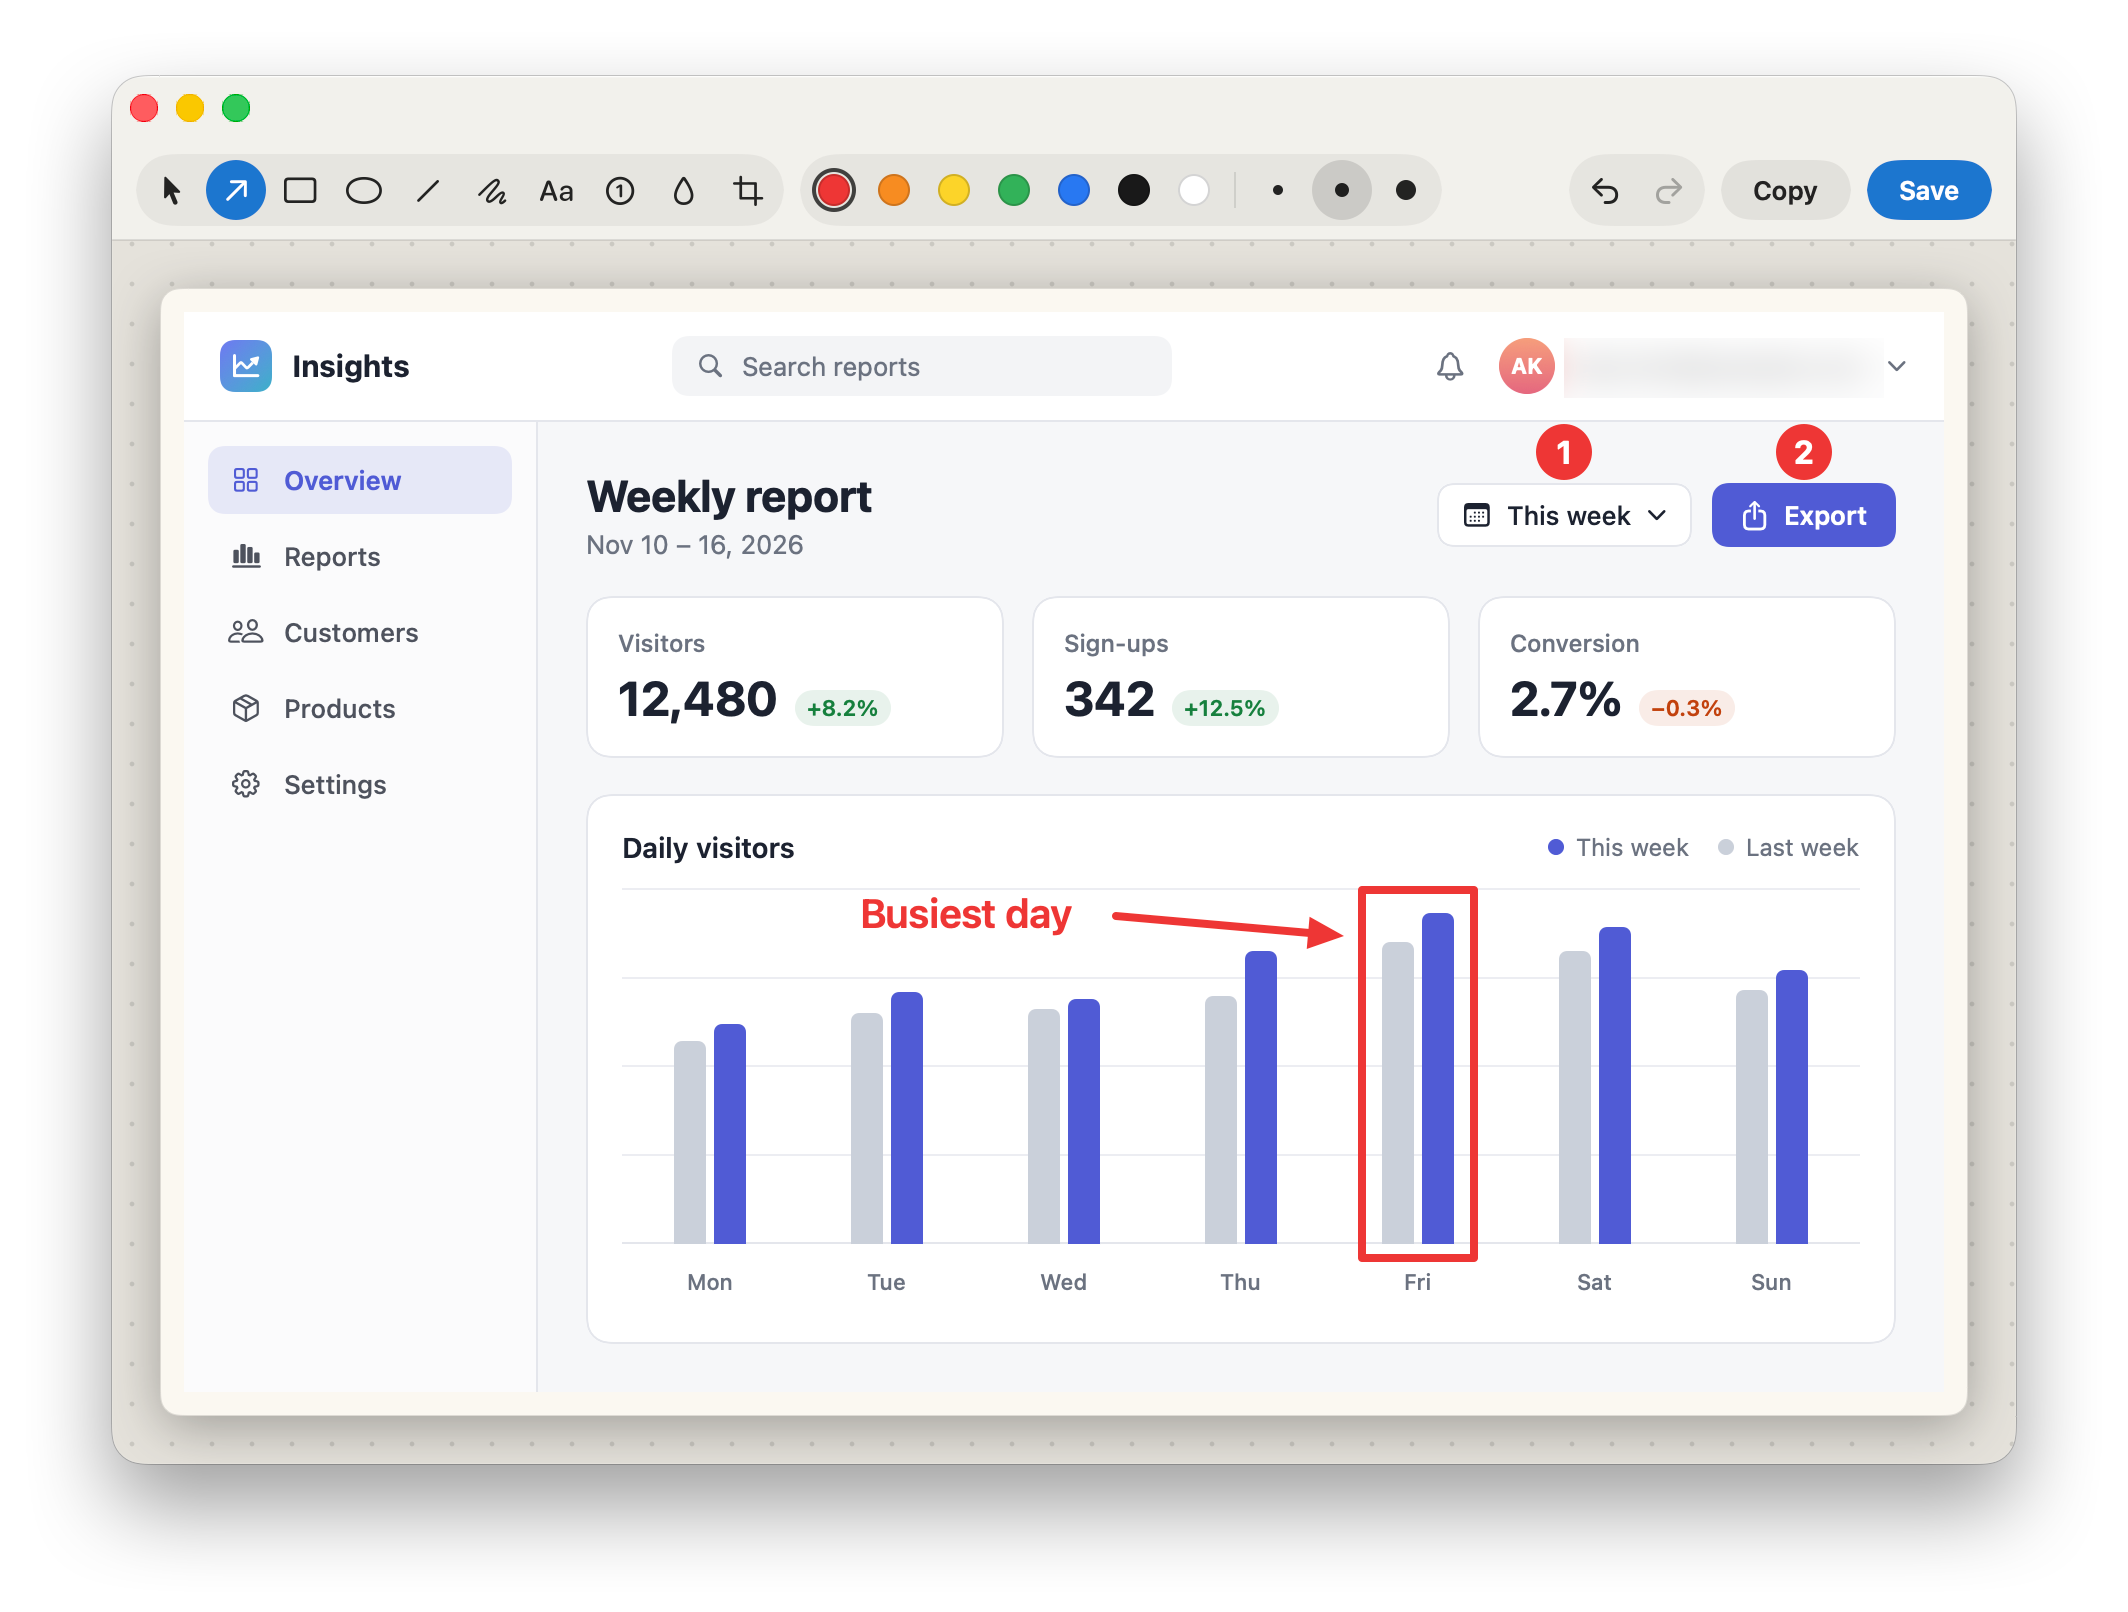
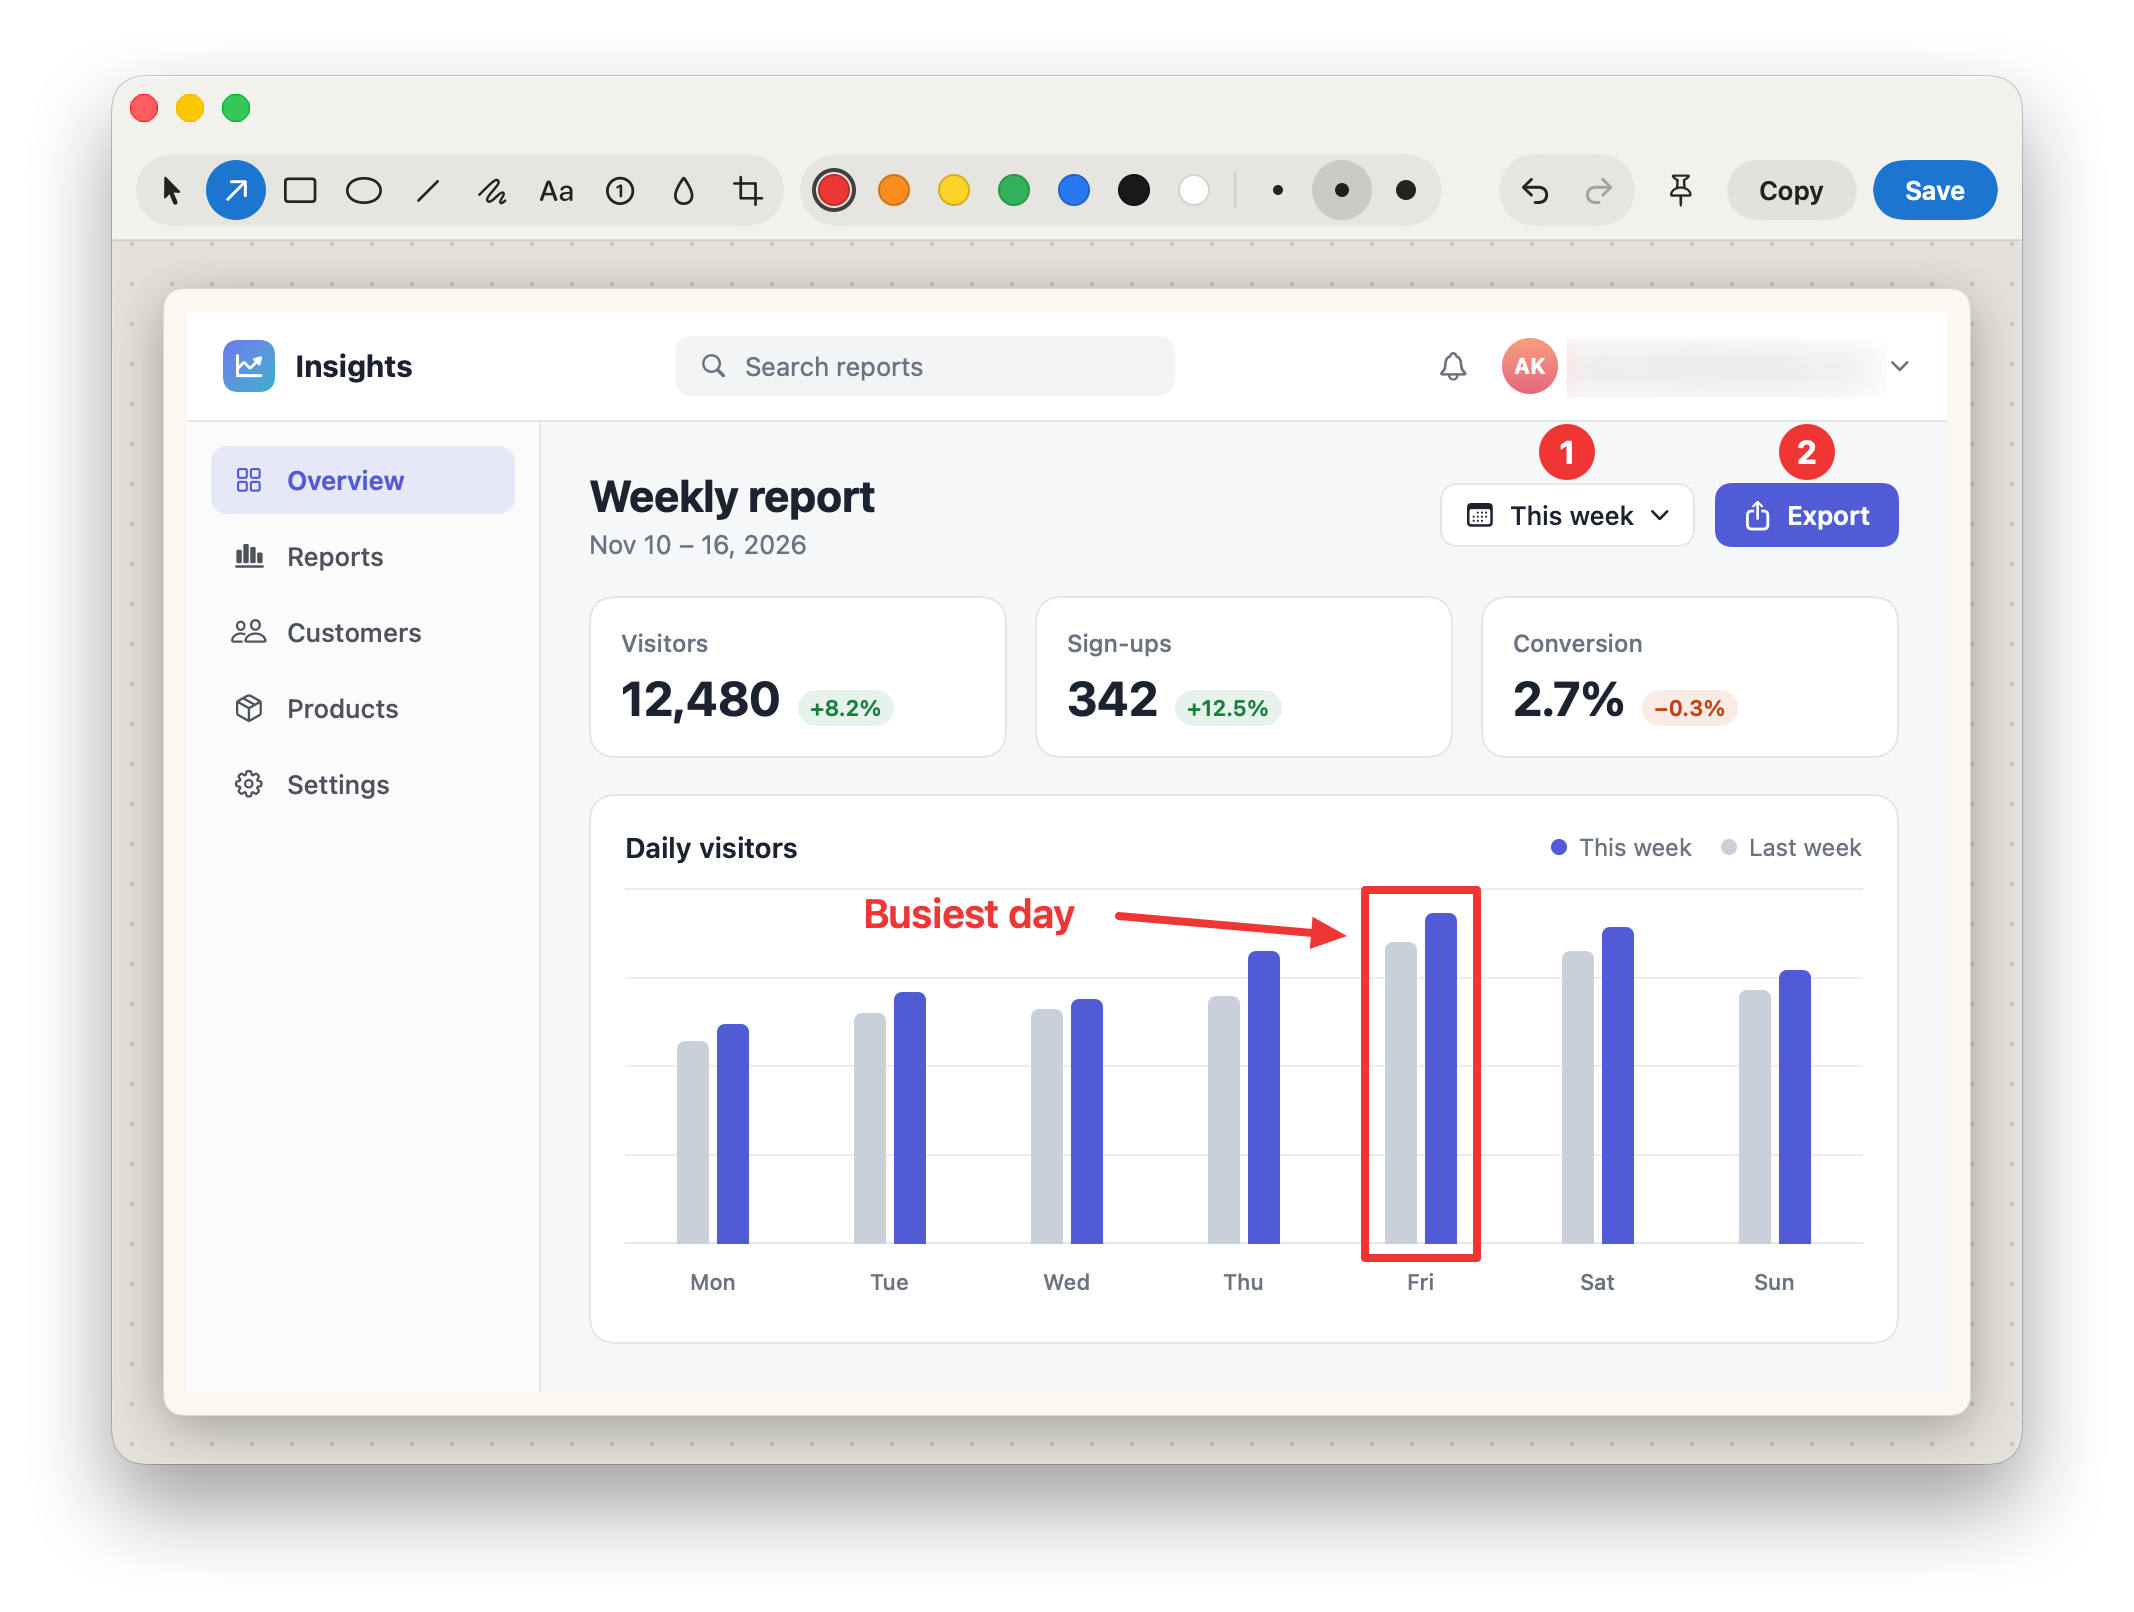
docs: show Pin to Screen in the thumbnail and editor pictures
Pashari 0.5.0 added a Pin to Screen button to the thumbnail card and to
the editor's toolbar, and the README pictures still showed neither.

The card's button strip and the editor window are drawn again from the
real views. The editor window is 3 pt wider than before, because the
toolbar now needs 955 pt in English; the print in it is unchanged.

diff --git a/README.md b/README.md
@@ -7,7 +7,7 @@ A menu bar screenshot and screen recording app for macOS, written in Swift.
 > **Status:** early development.
 
 <p align="center">
-  <img src="docs/images/thumbnails.png" width="640" alt="Four captures piled up like instant photos in the bottom-left corner of the screen. The newest lies on top, with buttons to copy, save, annotate or close it, and a badge that counts four.">
+  <img src="docs/images/thumbnails.png" width="640" alt="Four captures piled up like instant photos in the bottom-left corner of the screen. The newest lies on top, with buttons to copy, save, annotate, pin or close it, and a badge that counts four.">
 </p>
 
 ## Features
@@ -43,7 +43,7 @@ A menu bar screenshot and screen recording app for macOS, written in Swift.
   order taken
 
 <p align="center">
-  <img src="docs/images/editor.png" width="800" alt="The annotation editor. A screenshot of a web page lies like a print on a dotted desk, with numbered badges, a blurred email address, a box, an arrow and a label drawn on it. The tools, colours and sizes run along the top, next to Undo, Redo, Copy and Save.">
+  <img src="docs/images/editor.png" width="800" alt="The annotation editor. A screenshot of a web page lies like a print on a dotted desk, with numbered badges, a blurred email address, a box, an arrow and a label drawn on it. The tools, colours and sizes run along the top, next to Undo, Redo, Pin to Screen, Copy and Save.">
 </p>
 
 Up to five thumbnails lie on the pile, as many as fit on screen when
